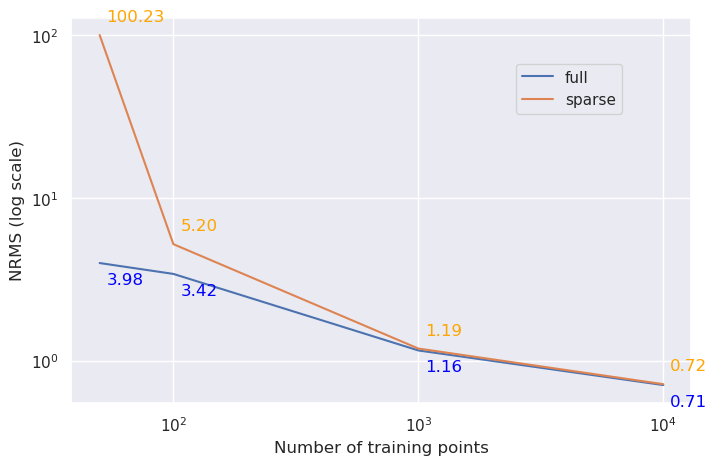
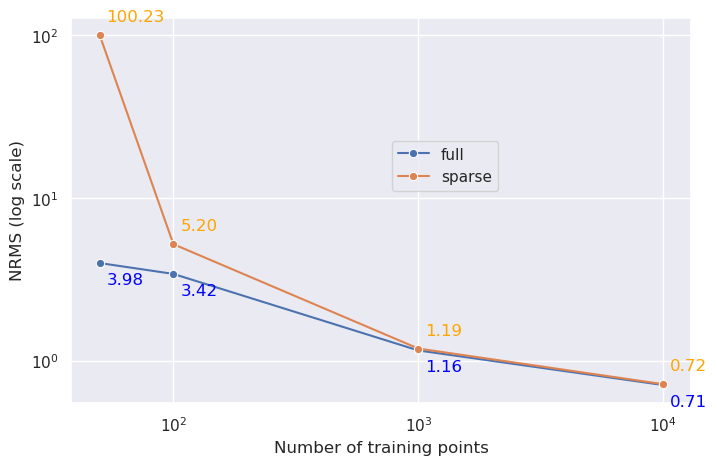
tiny viz update

diff --git a/Gaussian_Processes/Visualize.py b/Gaussian_Processes/Visualize.py
@@ -135,8 +135,8 @@ for split in ['val_pred', 'val_sim']:
     sns.set(rc={'figure.figsize': (8, 5)})
 
     # Plot the lines
-    sns.lineplot(x=x, y=nrms_full, label='full')
-    sns.lineplot(x=x, y=nrms_sparse, label='sparse')
+    sns.lineplot(x=x, y=nrms_full, label='full', marker='o')
+    sns.lineplot(x=x, y=nrms_sparse, label='sparse',marker='o')
 
     # Set logarithmic scale
     plt.yscale('log')
